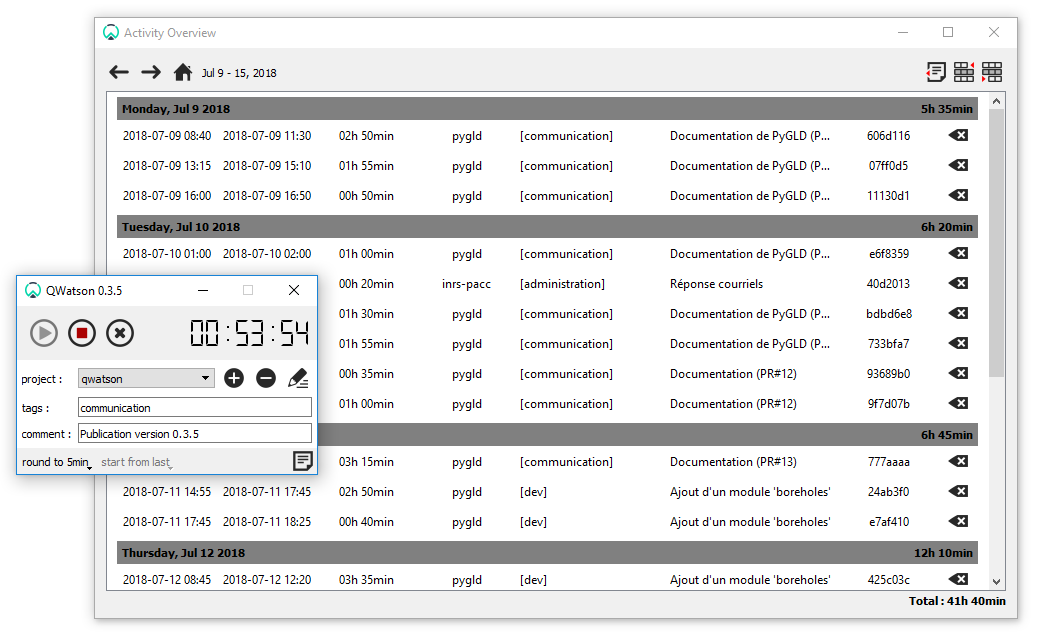
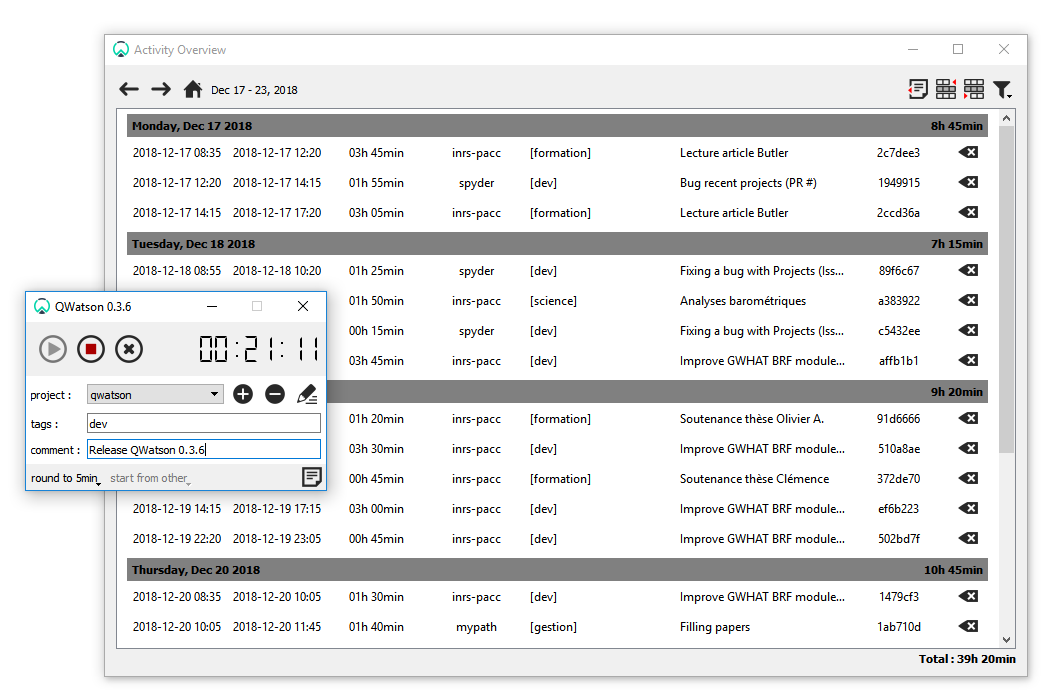
PR: Release 0.3.6 (#79)
* Bump version and date

* Update printscreen to show new filter icon

Changed region(s): [[0.0, 0.0311, 0.9827, 0.9938]]

diff --git a/qwatson/__init__.py b/qwatson/__init__.py
@@ -25,11 +25,11 @@ import os
 import sys
 
 
-version_info = (0, 3, 6, 'dev')
+version_info = (0, 3, 6)
 __version__ = '.'.join(map(str, version_info))
 __appname__ = 'QWatson'
 __namever__ = __appname__ + " " + __version__
-__date__ = '05/08/2018'
+__date__ = '14/01/2019'
 __project_url__ = "https://github.com/jnsebgosselin/qwatson"
 __releases_url__ = __project_url__ + "/releases"
 __releases_api__ = ("https://api.github.com/repos/jnsebgosselin/qwatson/"
